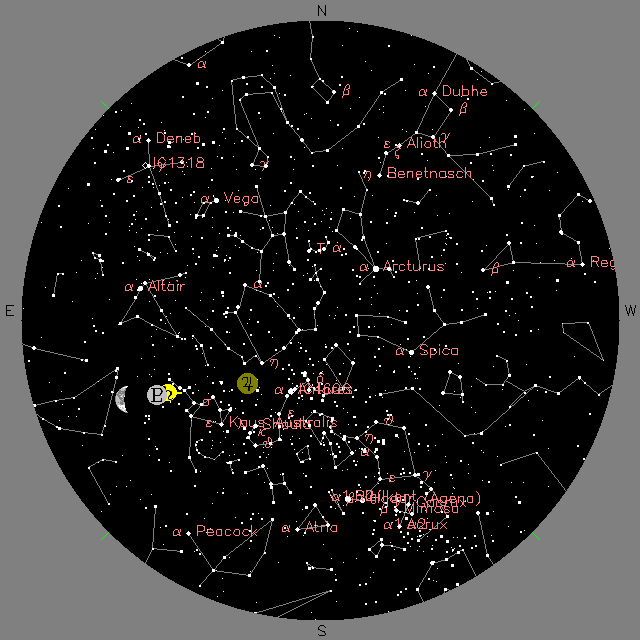
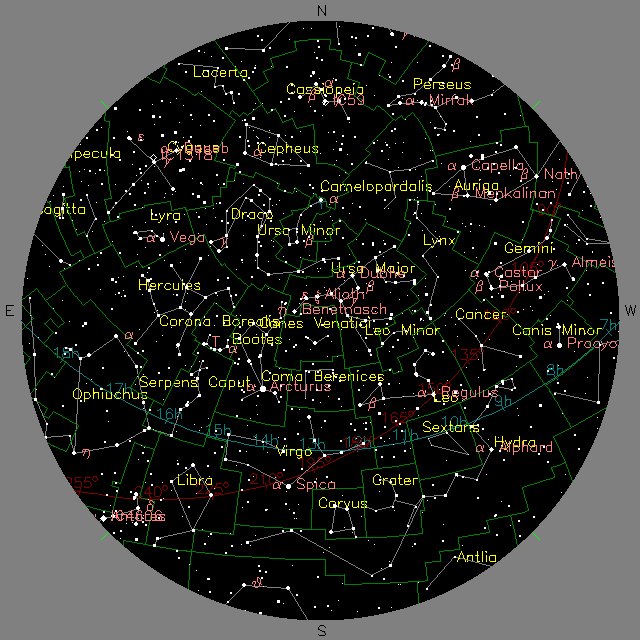
Semi put-togeth UI

diff --git a/template.py b/template.py
@@ -1,0 +1,54 @@
+from tkinter import *
+from datetime import datetime
+import skyeventmech as sem
+
+def get_current_date_string():
+	now = datetime.now()
+	date = "%d-%02d-%02d %02d:%02d:%02d"%(now.year, now.month, now.day, now.hour, now.minute, now.second)
+	return date
+
+
+class SkyEvent:
+	def __init__(self,master):
+		self.mainframe = Frame(master)
+		self.mainframe.pack()
+		self.date_and_time = LabelFrame(self.mainframe, text='Date and Time', padx=5,pady=5)
+		self.date_and_time.pack()
+
+		self.location = LabelFrame(self.mainframe, text='Location', padx=5,pady=5)
+		self.location.pack()
+
+		self.image_format = LabelFrame(self.mainframe, text='Image Format', padx=5, pady=5)
+		self.image_format.pack()
+
+
+		self.date_frame=LabelFrame(self.date_and_time, text='Date')
+		self.date_frame.pack(anchor=W)
+		self.now_check=Checkbutton(self.date_frame, text='Now', onvalue="RGB", offvalue="L")
+		self.now_check.pack(anchor=W)
+		self.date_entry=Entry(self.date_frame)
+		current_date=get_current_date_string()
+		self.date_entry.insert(0,current_date)
+		self.date_entry.pack(anchor=W)
+
+		self.latitude_frame=Frame(self.location)
+		self.latitude_frame.pack()
+		self.latitude_label=Label(self.latitude_frame,text='Latitude')
+		self.latitude_label.pack(side=LEFT)
+		self.latitude_entry=Entry(self.latitude_frame)
+		self.latitude_entry.pack(side=LEFT)
+
+		self.longitude_frame=Frame(self.location)
+		self.longitude_frame.pack()
+		self.longitude_label=Label(self.longitude_frame,text='Longitude')
+		self.longitude_label.pack(side=LEFT)
+		self.longitude_entry=Entry(self.longitude_frame)
+		self.longitude_entry.pack(side=LEFT)
+
+		moon_dude = sem.get_moon_dude()
+		self.title=Label(master,text=moon_dude)
+		self.title.pack()
+		# w.pack()
+		# field=Entry(master)
+		# field.pack()
+		master.mainloop()

diff --git a/skyeventmech.py b/skyeventmech.py
@@ -1,0 +1,43 @@
+from spinner import Spinner
+import form_filler as filler
+import mechanize as mech
+import requests
+from PIL import Image
+
+def get_moon_dude():
+	f = open('assets/title.txt', 'r')
+	moon_dude = f.read()
+	f.close()
+	return moon_dude
+
+def main_process(argv):
+	spinner = Spinner() #Make spinner
+	spinner.start()
+
+	br = mech.Browser()
+	br.set_handle_robots(False)   # ignore robots
+	res = br.open('http://www.fourmilab.ch/cgi-bin/Yoursky')
+
+	link = br.find_link("Customise")
+	br.follow_link(link)
+	  
+	spinner.stop()
+
+	#Fill out form
+	filler.fill_form(br,argv)
+
+	#submit form
+	res = br.submit()
+
+	#download generate img
+	img = open('pic/sky.jpg','wb')
+	img.write(requests.get(br.geturl()).content)
+	img.close()
+
+	#Show cool moon dude
+	moon_dude = get_moon_dude
+	print(moon_dude)
+
+	#display image
+	img = Image.open('pic/sky.jpg')
+	img.show()

diff --git a/gui.py b/gui.py
@@ -1,5 +1,9 @@
 from tkinter import *
-from tkinter import tkk
+from template import SkyEvent
+#Build an argv string from input
 
+#init tkinter 
 root = Tk()
 root.title("SkyEvent")
+app = SkyEvent(root)
+root.mainloop()

diff --git a/command_runner.py b/command_runner.py
@@ -1,0 +1,4 @@
+import skyeventmech as mech
+import sys
+
+mech.main_process(sys.argv)
